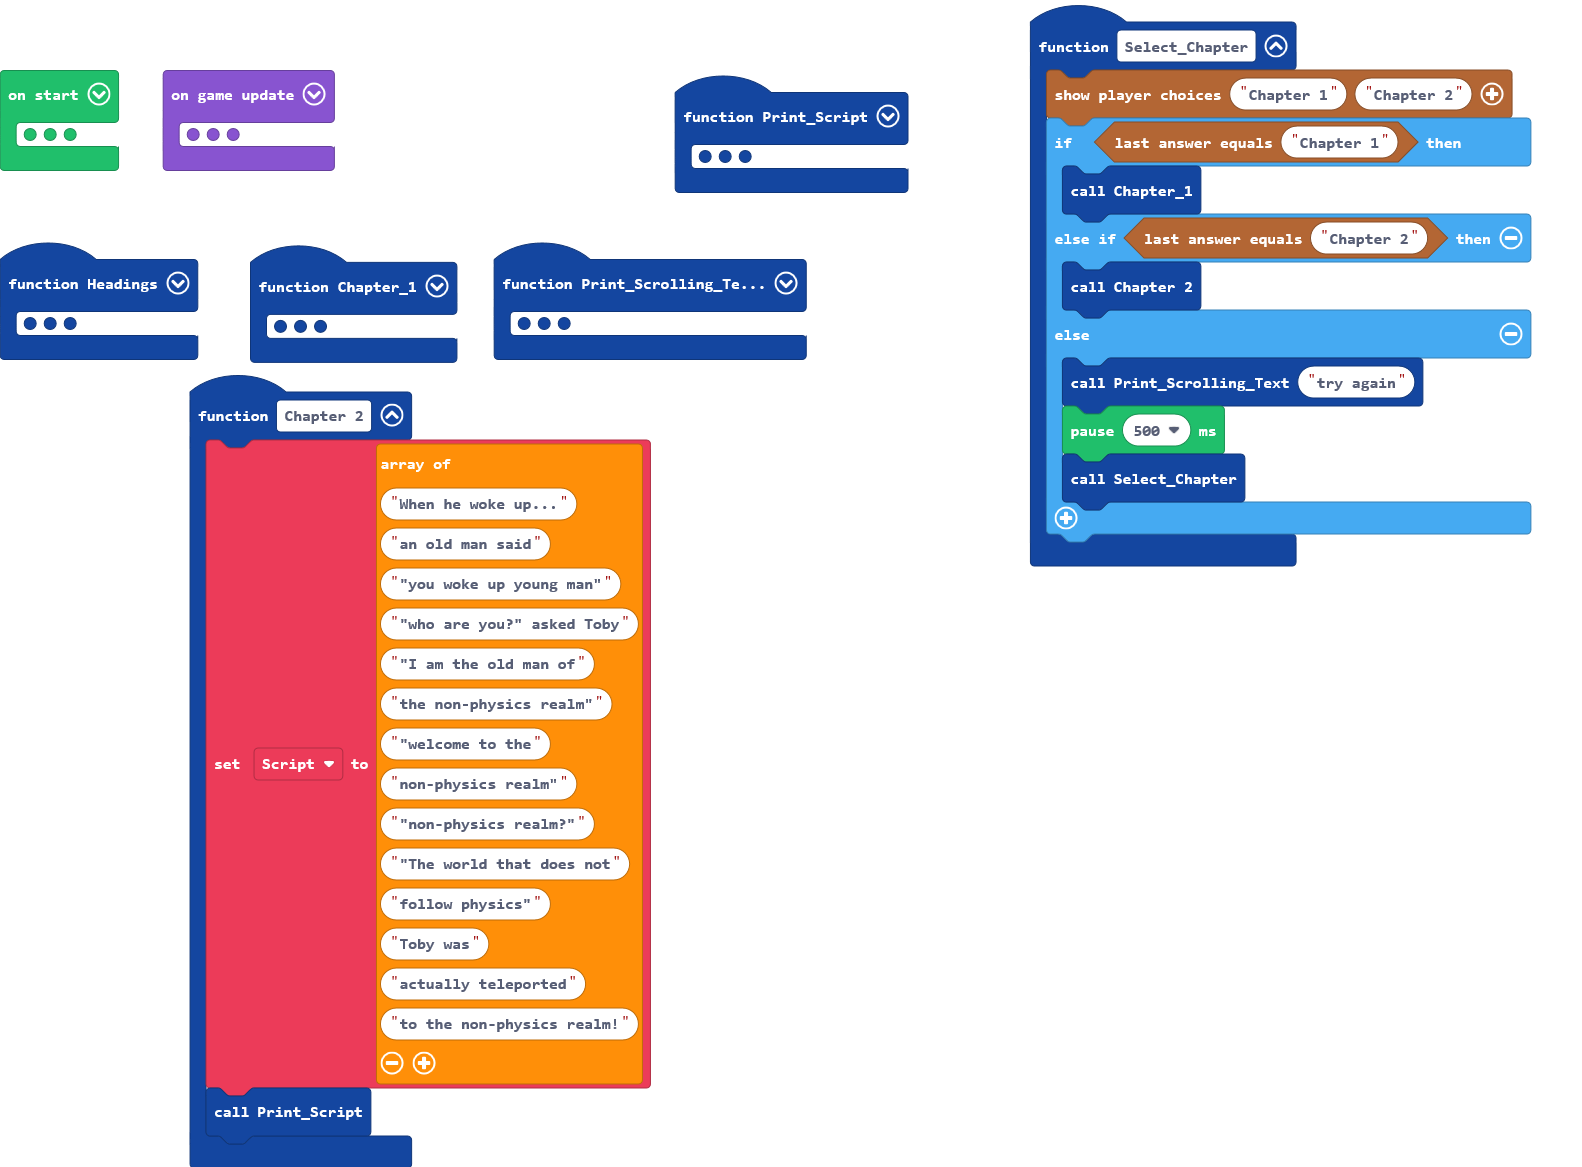
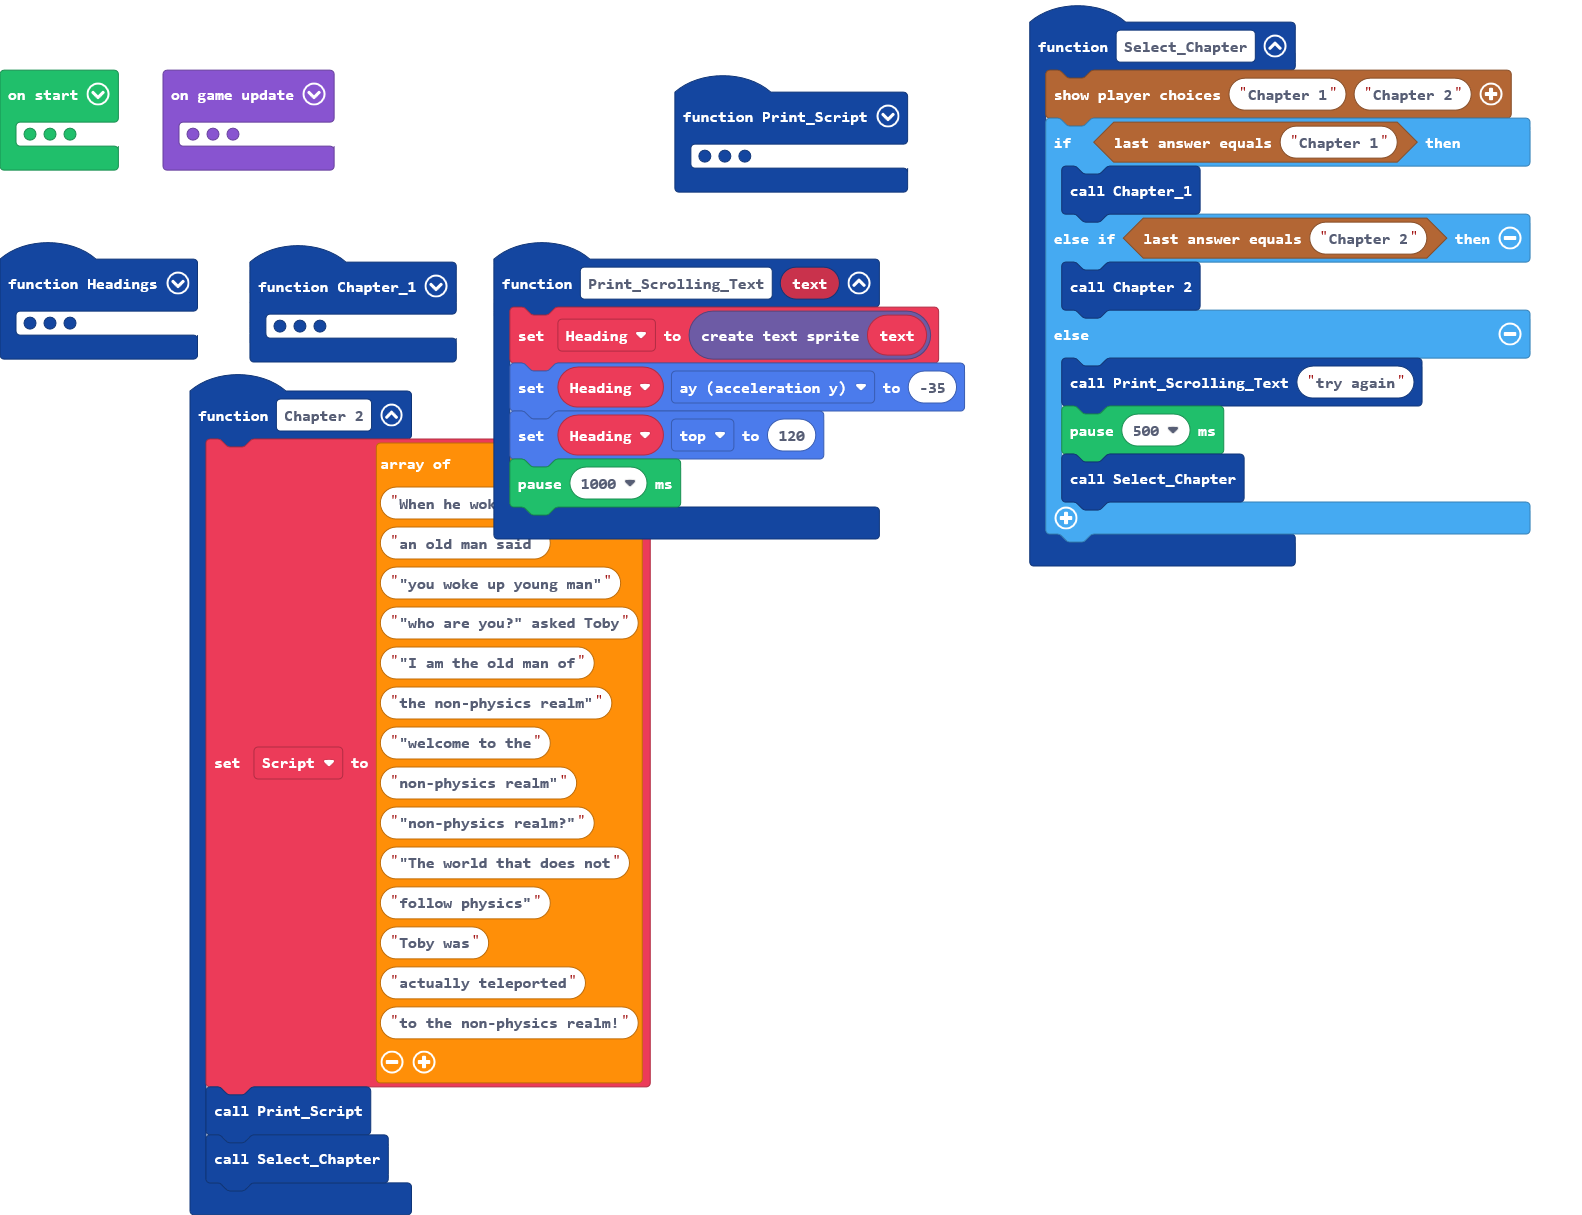
added a bit longer wain in printing text and added select chapter at the end of chapter 2

diff --git a/main.ts b/main.ts
@@ -16,6 +16,7 @@ function Chapter_2 () {
     "to the non-physics realm!"
     ]
     Print_Script()
+    Select_Chapter()
 }
 function Select_Chapter () {
     story.showPlayerChoices("Chapter 1", "Chapter 2")
@@ -324,7 +325,7 @@ function Print_Scrolling_Text (text: string) {
     Heading = MakingText.createTextSprite(text)
     Heading.ay = -35
     Heading.top = 120
-    pause(500)
+    pause(1000)
 }
 let Heading: Sprite = null
 let Script: string[] = []
